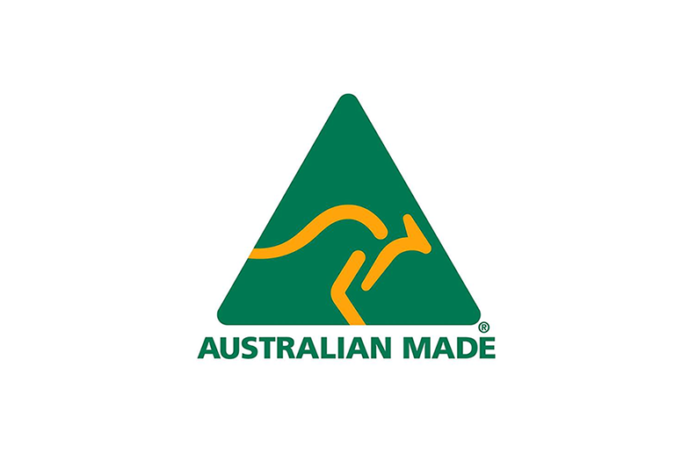
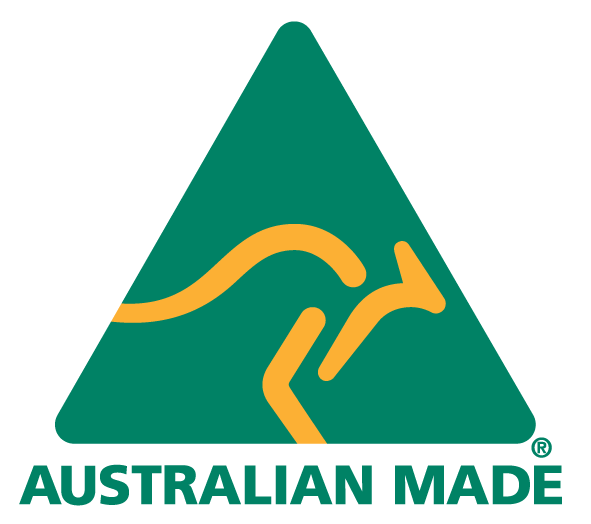
adjust images

diff --git a/index.html b/index.html
@@ -15,13 +15,13 @@
     <div class="site-mobile-menu site-navbar-target">
       <div class="site-mobile-menu-header">
         <div class="site-mobile-menu-close mt-3">
-          <span class="icon-close2 js-menu-toggle"></span>
+          <span class="icon-close2"></span>
         </div>
       </div>
       <div class="site-mobile-menu-body"></div>
     </div>
     
-    <header class="site-navbar py-3 js-site-navbar site-navbar-target" role="banner" id="site-navbar">
+    <header class="site-navbar py-3 site-navbar-target" role="banner" id="site-navbar">
       <div class="container">
         <div class="row align-items-center">
           <div class="col-11 col-xl-2 site-logo">
@@ -56,7 +56,7 @@
           <div class="col-md-6 col-lg-3 mb-5 mb-lg-0"  >
             <div class="how-it-work-item">
               <div class="how-it-work-body">
-                <img src="/images/ausmade.png" class="img-fluid rounded" alt="">
+                <img width="180" src="/images/ausmade.png" class="img-fluid rounded" alt="ausmade">
               </div>
             </div>
           </div>
@@ -64,8 +64,7 @@
           <div class="col-md-6 col-lg-3 mb-5 mb-lg-0"  >
             <div class="how-it-work-item">
               <div class="how-it-work-body">
-                <h2>1000+ Parcels</h2>
-                <h5 class="mb-5">delivered daily</h5>
+                <img width="180" src="/images/1000_parcels.png" alt="1000_parcels">
               </div>
             </div>
           </div>
@@ -73,8 +72,7 @@
           <div class="col-md-6 col-lg-3 mb-5 mb-lg-0"  >
             <div class="how-it-work-item">
               <div class="how-it-work-body">
-                <h2>6 million</h2>
-                <h5 class="mb-5">Australians Served</h5>
+                <img width="180" src="/images/6_mil.png" alt="sixmillion">
               </div>
             </div>
           </div>
@@ -82,7 +80,7 @@
           <div class="col-md-6 col-lg-3 mb-5 mb-lg-0"  >
             <div class="how-it-work-item">
               <div class="how-it-work-body">
-                <img src="/images/buyaussienow.png" class="img-fluid rounded" alt="">
+                <img width="180" src="/images/buy_aussie.png" class="img-fluid rounded" alt="buy_aussie">
               </div>
             </div>
           </div>
@@ -96,7 +94,7 @@
         <div class="row mb-5">
           
           <div class="col-md-5 ml-auto mb-5 order-md-2"  >
-            <img src="https://picsum.photos/380/380" alt="Image" class="img-fluid rounded">
+            <img width="380" src="/images/delivery.png" alt="Image" class="img-fluid">
           </div>
           <div class="col-md-6 order-md-1" >
             <div class="text-left pb-1 border-primary mb-4">
@@ -121,21 +119,21 @@
         <div class="row">
           <div class="col-md-6 col-lg-4 mb-5 mb-lg-0"  >
             <div class="person text-center">
-              <img src="https://picsum.photos/150/150" alt="Image" class="img-fluid rounded mb-5 w-75 rounded-circle">
+              <img src="/images/van_house_icon.png" alt="Image" class="img-fluid mb-5 w-75 rounded-circle">
               <h3>B2B</h3>
               <p class="mb-4">Keeping businesses connected. Delivering high volumes.</p>
             </div>
           </div>
           <div class="col-md-6 col-lg-4 mb-5 mb-lg-0"  >
             <div class="person text-center">
-              <img src="https://picsum.photos/150/150" alt="Image" class="img-fluid rounded mb-5 w-75 rounded-circle">
+              <img src="/images/delivery_icon.png" alt="Image" class="img-fluid mb-5 w-75 rounded-circle">
               <h3>B2C</h3>
               <p class="mb-4">Ensuring businesses keep their customers happy with timley and efficient deliveries</p>
             </div>
           </div>
           <div class="col-md-6 col-lg-4 mb-5 mb-lg-0"  >
             <div class="person text-center">
-              <img src="https://picsum.photos/150/150" alt="Image" class="img-fluid rounded mb-5 w-75 rounded-circle">
+              <img src="/images/van_icon.png" alt="Image" class="img-fluid mb-5 w-75 rounded-circle">
               <h3>Job Specific Vehicles</h3>
               <p class="mb-4">We have the right vehicle from our fleet to execute every task</p>
             </div>
